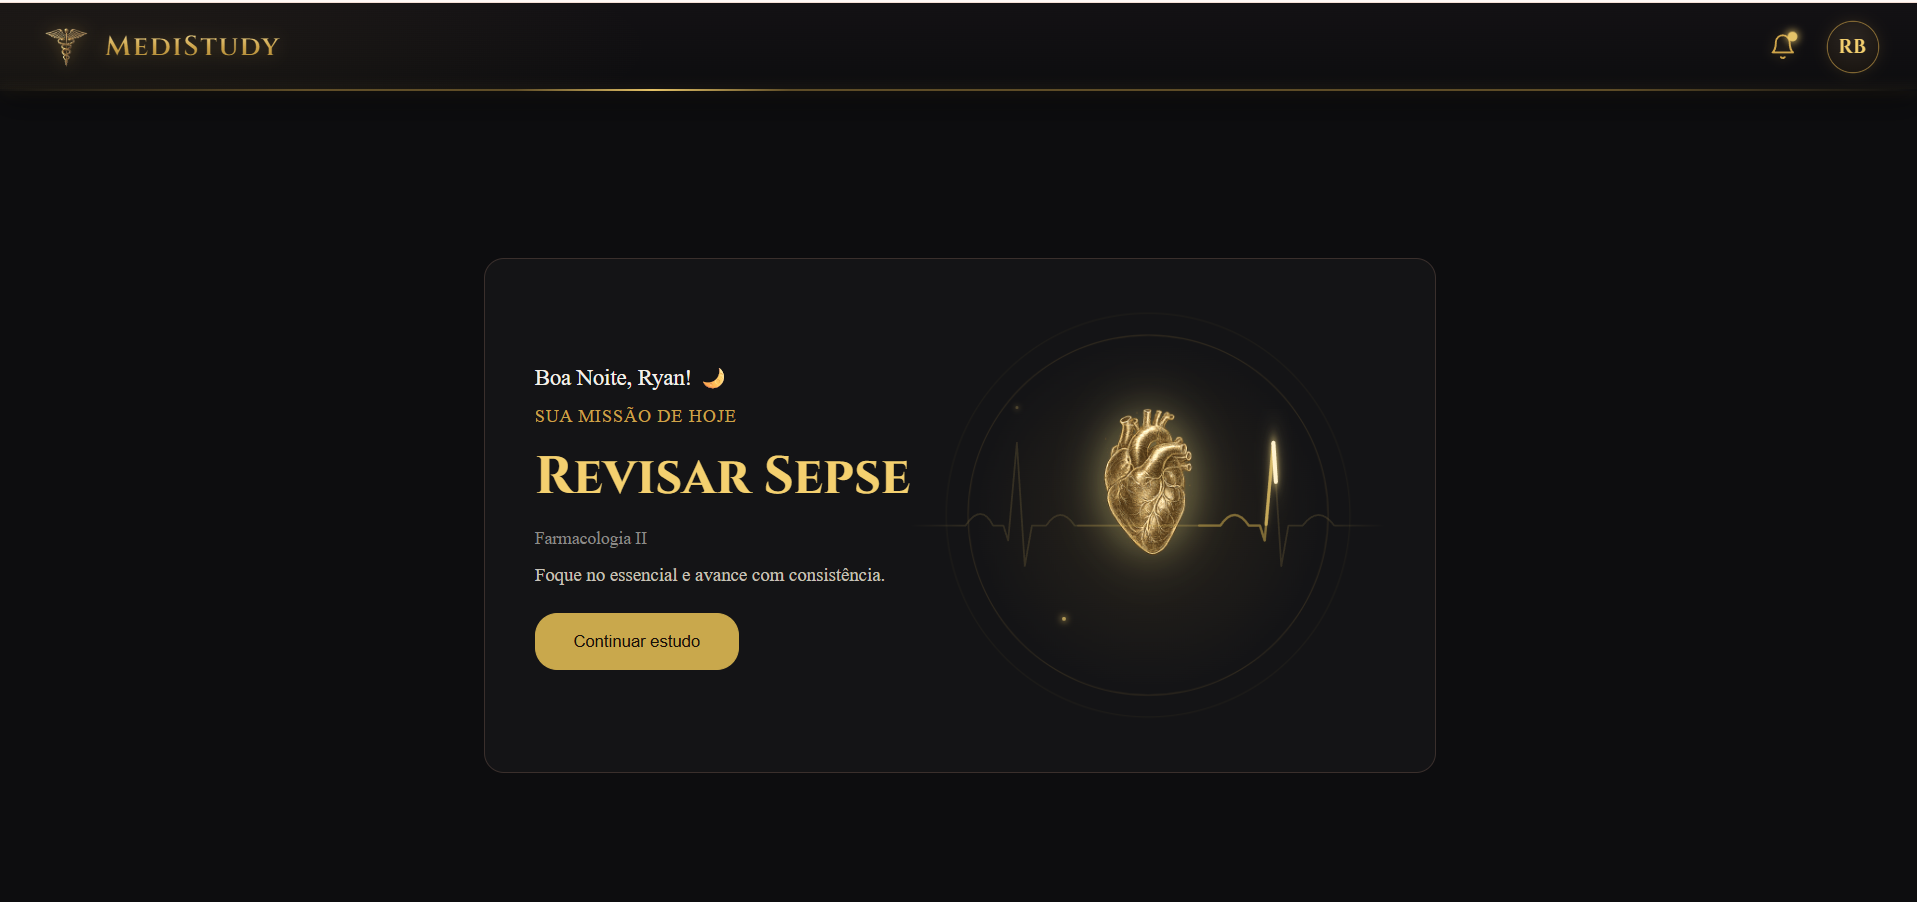
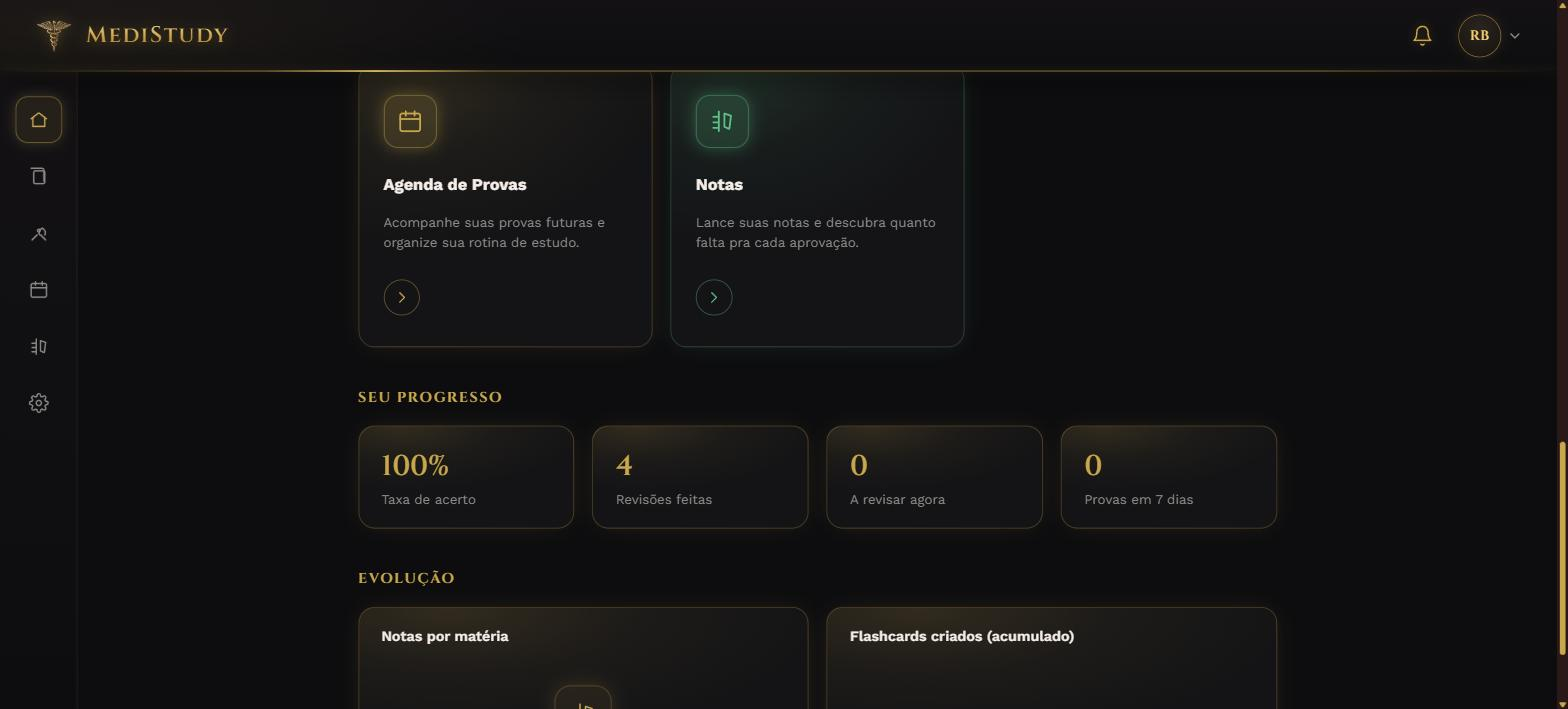
Atualiza bloco do MediStudy no portfólio (pt+en) com novos screenshots
Reescreve o conteúdo em projects-content.js para refletir o fluxo
real do produto (Postgres/Supabase, Edge Function de casos clínicos)
e adiciona screenshots de home, flashcards e casos clínicos.

diff --git a/projects-content.js b/projects-content.js
@@ -22,13 +22,13 @@ const PROJECTS_CONTENT = {
     intro: {
       pt: {
         motivation: 'Acompanhando minha namorada na jornada de estudar Medicina, via ela usando mais de 10 ferramentas diferentes pra estudar: uma IA pra conversar, outra pra debater ideias, Anki pra flashcard, mais uma pra gerar imagem. Como ela tem TDAH, esse tanto de ferramenta espalhada dificultava ainda mais o foco. Construí o MediStudy pra juntar tudo isso num lugar só, e ir além: um sistema que aprende com as respostas dela e se adapta ao jeito dela estudar.',
-        built: 'Um chat único onde, em vez de perguntar pra uma IA, copiar a resposta e levar pra outra, várias IAs debatem entre si e devolvem um relatório com os pontos de vista já cruzados. Também tem gerador de prova que aprende o estilo de cada professor a partir de provas antigas, e um modo grupo com ranking colaborativo, pensado pro jeito que ela estuda com as amigas: em chamada, testando conhecimento junto.',
-        numbers: 'Em fase de arquitetura. Estou desenhando a stack (Docker, com visão de rodar em container portátil) pensando em engenharia de custo e performance antes de escalar o desenvolvimento.',
+        built: 'Flashcards com repetição espaçada e importador do Anki, dois modos de revisão pensados pro tempo real dela (revisão rápida de 5 minutos, véspera de prova), casos clínicos gerados por IA a partir da matéria escolhida, agenda de provas com cálculo de nota necessária, e histórico de evolução em gráfico. Mais de 150 testes automatizados cobrem a lógica de negócio, e o app já passou por duas fases de um redesign visual completo.',
+        numbers: 'Em uso real desde as primeiras ferramentas prontas, não só planejado: mais de 150 testes automatizados, 16 issues do GitHub fechadas, e um redesign visual em fase avançada (2 de 5 fases já completas).',
       },
       en: {
         motivation: "Following my girlfriend through her Medicine studies, I saw her using more than 10 different tools just to study: one AI to talk to, another to debate ideas with, Anki for flashcards, another one to generate images. Since she has ADHD, that many scattered tools made it even harder to focus. I built MediStudy to bring all of that into one place, and go further: a system that learns from her answers and adapts to how she studies.",
-        built: "A single chat where, instead of asking one AI, copying the answer and taking it to another, several AIs debate among themselves and return a report with the viewpoints already cross-checked. It also has an exam generator that learns each professor's style from past exams, and a group mode with a collaborative ranking, built around how she studies with her friends: on a call, testing knowledge together.",
-        numbers: "Still in the architecture phase. I'm designing the stack (Docker, with a portable-container setup in mind) thinking about cost and performance engineering before scaling development.",
+        built: "Spaced-repetition flashcards with an Anki importer, two review modes built around her actual time (a 5-minute quick review, a night-before-the-exam mode), AI-generated clinical cases from a chosen subject, an exam calendar with a required-grade calculator, and an evolution history shown as charts. Over 150 automated tests cover the business logic, and the app has already gone through two phases of a full visual redesign.",
+        numbers: "In real use since the first tools were ready, not just planned: over 150 automated tests, 16 closed GitHub issues, and a visual redesign in an advanced stage (2 of 5 phases already complete).",
       },
     },
     pt: {
@@ -38,31 +38,33 @@ const PROJECTS_CONTENT = {
         { t: 'p', text: 'Sempre tive fascínio por IA e o que ela é capaz de fazer de verdade. Um dia vi minha namorada abrindo mais de 15 ferramentas diferentes só pra dar conta de uma sessão de estudo: o Claude pra tirar dúvida, o Anki pra flashcard, o NotebookLM pra organizar anotação, três ferramentas separadas resolvendo um único problema. Pensei: por que não construir uma que englobe tudo isso, moldada exatamente no jeito que ela estuda, e no jeito que ela estuda com as amigas?' },
         { t: 'gallery', label: 'Como está hoje', items: [
           { src: 'screens/01-login.webp', caption: 'Tela de login do MediStudy' },
-          { src: 'screens/02-home.png', caption: 'Home: missão do dia gerada a partir do plano de estudo' },
+          { src: 'screens/02-home.png', caption: 'Home: sidebar, missão do dia e grid de ferramentas com estatísticas reais' },
+          { src: 'screens/03-flashcards.png', caption: 'Flashcards: card de revisão virado, com painel de estatísticas' },
+          { src: 'screens/04-casos-clinicos.png', caption: 'Casos Clínicos: caso gerado por IA com alternativas' },
         ] },
-        { t: 'h2', text: 'O que eu desenhei' },
-        { t: 'p', text: 'A base: flashcards com repetição espaçada, casos clínicos gerados por IA, mapa mental interativo, Pomodoro integrado. A partir daí, fui atrás do que realmente diferencia estudar Medicina de estudar qualquer outra coisa. Um simulador de anamnese onde a IA faz o papel do paciente. Um interpretador de exames que lê hemograma e gasometria e explica em linguagem simples. Um recurso de fotografar o slide da aula e ele virar flashcard sozinho. Um modo "explique pro professor", que avalia a resposta pelo estilo específico de cada professor, e um gerador de prova que aprende como aquele professor cobra, a partir dos PDFs de aula e prova antiga que as próprias alunas sobem.' },
-        { t: 'p', text: 'É aqui que entra a parte de arquitetura que mais me interessou resolver: cada matéria vira um contexto próprio no banco, ligado ao professor daquela turma. Quando uma aluna sobe o PDF de uma aula ou prova, esse material entra no histórico daquele professor específico. Isso cria um efeito que gosto bastante: a primeira aluna a subir material de um professor leva mais tempo construindo esse contexto, mas a segunda, terceira e quarta aluna da mesma turma já usam o app com aquele histórico pronto, sem precisar repetir o trabalho. Quanto mais gente usa, mais rico o sistema fica pra todo mundo.' },
-        { t: 'diagram', label: 'Como a arquitetura funciona', nodes: [
-          { title: 'Upload de PDF', desc: 'Aluna sobe aula ou prova antiga' },
-          { title: 'Contexto por professor', desc: 'Material vira histórico ligado ao professor daquela turma' },
-          { title: 'Resumo indexado', desc: 'Conteúdo resumido uma vez, PDF só é relido quando necessário' },
-          { title: 'Orquestração de IA', desc: 'Claude, Groq e Gemini divididos por tipo de tarefa' },
-          { title: 'Resposta ao grupo', desc: 'Caso clínico, prova ou explicação volta pra aluna e pro grupo' },
+        { t: 'h2', text: 'O que eu construí até aqui' },
+        { t: 'p', text: 'A base já está de pé: flashcards com repetição espaçada de verdade (o fator de facilidade de cada card sobe ou desce a cada resposta, mudando quando ele volta a aparecer), importador de baralho do Anki, dois modos de revisão pensados pro tempo real dela, revisão rápida de 5 minutos antes da aula e véspera de prova revisando a matéria inteira do mais difícil pro mais fácil. Os casos clínicos são gerados por IA de verdade, a partir da matéria escolhida, com alternativas, explicação da resposta certa, e histórico de acerto salvo. Além disso: agenda de provas com cálculo de quanto ela precisa tirar pra fechar a média, e histórico de evolução em gráfico.' },
+        { t: 'p', text: 'A parte de arquitetura que mais me interessou resolver, até aqui, foi tirar a chamada de IA do navegador: os casos clínicos passam por uma função no Supabase antes de chegar na IA, então a chave de acesso nunca fica exposta no site publicado. É pouco vistoso pra quem usa, mas é a diferença entre um projeto que só funciona no meu computador e um que funciona pra ela de verdade, todo dia.' },
+        { t: 'diagram', label: 'Como a arquitetura funciona hoje', nodes: [
+          { title: 'Ação na aluna', desc: 'Ex.: pedir um caso clínico de uma matéria' },
+          { title: 'Função no Supabase', desc: 'Recebe o pedido, guarda a chave de IA em segurança' },
+          { title: 'IA gera o conteúdo', desc: 'Groq, modelo Kimi K2, devolve o caso clínico' },
+          { title: 'Validação', desc: 'Formato da resposta é checado antes de salvar' },
+          { title: 'Banco de dados', desc: 'Caso e histórico de acerto salvos pra aluna' },
         ] },
-        { t: 'h2', text: 'Onde o compartilhamento entra' },
-        { t: 'p', text: 'O plano nasceu pensando em grupo, porque é assim que ela estuda de verdade: com as amigas, em chamada. Uma aluna gera um caso clínico e chama o grupo pra debater dentro do próprio app. Uma prova simulada gerada por uma aluna fica disponível pra turma revisar. Um diário de erros aponta padrão de erro individual, e pode apontar onde a turma inteira mais erra, sem expor nota de ninguém.' },
+        { t: 'h2', text: 'Onde o compartilhamento entra (visão futura)' },
+        { t: 'p', text: 'Nada disso existe ainda, é a próxima camada que quero construir: o plano nasceu pensando em grupo, porque é assim que ela estuda de verdade, com as amigas, em chamada. A ideia é uma aluna gerar um caso clínico e chamar o grupo pra debater dentro do próprio app, ou subir o PDF de uma aula/prova antiga e esse material virar contexto ligado ao professor daquela turma, pra próxima aluna da mesma turma já usar esse histórico pronto. Hoje isso é desenho, não código.' },
         { t: 'h2', text: 'Uma estimativa do que isso significa na prática' },
         { t: 'visual', label: 'Antes / Depois', text: 'Pra montar um caso clínico do jeito que ela fazia antes: prompt no ChatGPT, copiar pro grupo do WhatsApp, às vezes colar em outra IA pra revisar. Isso facilmente passava de 10 a 15 minutos por caso. Dentro do MediStudy, esse fluxo cai pra menos de um minuto, sem trocar de aba.' },
         { t: 'visual', label: 'Antes / Depois', text: 'Uma prova simulada específica de um professor, hoje, ela teria que montar sozinha, juntando material manualmente. Isso levaria facilmente mais de uma hora. Com o histórico do professor já acumulado, isso vira questão de segundos.' },
-        { t: 'h2', text: 'Engenharia de custo por trás' },
-        { t: 'p', text: 'Se toda vez que alguém pedisse uma prova simulada a IA precisasse reler o histórico inteiro de PDFs do professor do zero, o consumo de token ia explodir rápido, e o projeto roda quase todo em camada gratuita de API. Por isso penso o banco não só como lugar de guardar dado, mas como parte da estratégia de custo: resumir e indexar o material uma vez, guardar o resumo, e só reler o PDF inteiro quando for estritamente necessário.' },
-        { t: 'p', text: 'Hoje uso três IAs (Claude pro raciocínio pesado, Groq pra resposta rápida, Gemini pra imagem e PDF), mas a visão é ir além: uma camada própria de orquestração decidindo em tempo real qual entre várias LLMs deve responder cada pedido, sempre otimizando custo.' },
-        { t: 'vision', text: 'Essa parte ainda está na fase de desenho, não de código.' },
+        { t: 'h2', text: 'Engenharia de custo, hoje e pra quando o compartilhamento existir' },
+        { t: 'p', text: 'Hoje já penso nisso na única chamada de IA que existe: os casos clínicos passam pela Groq, que tem camada gratuita generosa, e reservo Claude pra funcionalidade que realmente justifique o custo, fora dessa camada gratuita, em vez de entrar por padrão em tudo que pede IA. Quando o compartilhamento em grupo existir, esse cuidado vira ainda mais necessário: se toda vez que alguém pedisse uma prova simulada a IA precisasse reler o histórico inteiro de PDFs do professor do zero, o consumo de token ia explodir rápido. Por isso já penso o banco não só como lugar de guardar dado, mas como parte da estratégia de custo: resumir e indexar o material uma vez, guardar o resumo, e só reler o PDF inteiro quando for estritamente necessário.' },
+        { t: 'p', text: 'A visão é ir além do que já uso: uma camada própria de orquestração decidindo em tempo real qual entre várias LLMs deve responder cada pedido, sempre otimizando custo.' },
+        { t: 'vision', text: 'A camada de orquestração multi-IA ainda está na fase de desenho, não de código.' },
         { t: 'h2', text: 'A parte difícil' },
         { t: 'p', text: 'Desenhar isso não foi só decidir funcionalidade, foi decidir o que a tela mostra e o que ela esconde. Na primeira versão eu queria colocar tudo visível: gráfico, número, progresso. Percebi que isso ia contra o motivo do projeto existir, que era simplificar, não adicionar mais uma camada de decisão pra quem já tá sobrecarregada estudando pra prova. Mudei a lógica pra reduzir decisão em vez de acumular informação na tela.' },
         { t: 'h2', text: 'Onde está hoje' },
-        { t: 'status', text: 'Em desenvolvimento ativo. Tela de login e home já de pé, grid de ferramentas sendo construído agora. Sistema de contexto por professor e compartilhamento em grupo fazem parte do planejamento e ainda não foram implementados. Não é projeto comercial: nasceu de um problema real da minha namorada e meu ao mesmo tempo, e segue sendo os dois ao mesmo tempo.' },
+        { t: 'status', text: 'Em desenvolvimento ativo, com várias ferramentas já em uso real: login, home, flashcards com repetição espaçada e importador do Anki, casos clínicos gerados por IA, agenda de provas, cálculo de nota e histórico de evolução em gráfico. Mais de 150 testes automatizados cobrem a lógica de negócio, e o redesign visual já tem 2 de 5 fases completas. Mapas mentais, questões, simulador de anamnese, contexto por professor e compartilhamento em grupo fazem parte do planejamento e ainda não foram implementados. Não é projeto comercial: nasceu de um problema real da minha namorada e meu ao mesmo tempo, e segue sendo os dois ao mesmo tempo.' },
       ],
     },
     en: {
@@ -72,31 +74,33 @@ const PROJECTS_CONTENT = {
         { t: 'p', text: "I've always been fascinated by AI and what it's really capable of. One day I saw my girlfriend opening more than 15 different tools just to get through one study session: Claude for questions, Anki for flashcards, NotebookLM for organizing notes, three separate tools solving one single problem. I thought: why not build one that covers all of that, shaped exactly to how she studies, and to how she studies with her friends?" },
         { t: 'gallery', label: 'How it looks today', items: [
           { src: 'screens/01-login.webp', caption: 'MediStudy login screen' },
-          { src: 'screens/02-home.png', caption: "Home: today's mission generated from the study plan" },
+          { src: 'screens/02-home.png', caption: 'Home: sidebar, daily mission and tool grid with real stats' },
+          { src: 'screens/03-flashcards.png', caption: 'Flashcards: flipped review card, with the stats panel' },
+          { src: 'screens/04-casos-clinicos.png', caption: 'Clinical Cases: an AI-generated case with its options' },
         ] },
-        { t: 'h2', text: 'What I designed' },
-        { t: 'p', text: 'The base: spaced-repetition flashcards, AI-generated clinical cases, an interactive mind map, a built-in Pomodoro timer. From there, I went after what really sets studying Medicine apart from studying anything else. An anamnesis simulator where the AI plays the patient. An exam interpreter that reads bloodwork and blood gas panels and explains them in plain language. A feature that turns a photo of a class slide into a flashcard on its own. An "explain it to the professor" mode that grades the answer against each professor\'s specific style, and a test generator that learns how that professor grades, from the class and past-exam PDFs the students themselves upload.' },
-        { t: 'p', text: "This is where the architecture piece I found most interesting comes in: each subject becomes its own context in the database, tied to that class's professor. When a student uploads a class or exam PDF, that material enters that specific professor's history. That creates an effect I really like: the first student to upload material for a professor spends more time building that context, but the second, third and fourth student in the same class already use the app with that history ready, without repeating the work. The more people use it, the richer the system gets for everyone." },
-        { t: 'diagram', label: 'How the architecture works', nodes: [
-          { title: 'PDF upload', desc: 'A student uploads a class or exam PDF' },
-          { title: 'Per-professor context', desc: 'Material becomes history tied to that class’s professor' },
-          { title: 'Indexed summary', desc: 'Content is summarized once, PDF is only re-read when needed' },
-          { title: 'AI routing', desc: 'Claude, Groq and Gemini split by task type' },
-          { title: 'Group response', desc: 'Clinical case, exam or explanation goes back to the student and group' },
+        { t: 'h2', text: 'What I have built so far' },
+        { t: 'p', text: "The base is already up: spaced-repetition flashcards that actually work (each card's ease factor goes up or down with every answer, changing when it comes back around), an Anki deck importer, two review modes built around her real time, a 5-minute quick review before class and a night-before-the-exam mode that goes through the whole subject from hardest to easiest. The clinical cases are genuinely AI-generated, from a chosen subject, with multiple-choice options, an explanation for the right answer, and a saved history of right/wrong answers. On top of that: an exam calendar with a required-grade calculator, and an evolution history shown as charts." },
+        { t: 'p', text: "The architecture piece I found most interesting to solve so far was keeping the AI call out of the browser: clinical cases go through a Supabase function before reaching the AI, so the access key never gets exposed on the published site. It's not flashy for the person using it, but it's the difference between a project that only works on my machine and one that actually works for her, every day." },
+        { t: 'diagram', label: 'How the architecture works today', nodes: [
+          { title: 'Student action', desc: "E.g.: requesting a clinical case for a subject" },
+          { title: 'Supabase function', desc: 'Receives the request, keeps the AI key safe' },
+          { title: 'AI generates content', desc: 'Groq, Kimi K2 model, returns the clinical case' },
+          { title: 'Validation', desc: "Response format is checked before saving" },
+          { title: 'Database', desc: "Case and answer history saved for the student" },
         ] },
-        { t: 'h2', text: 'Where group sharing comes in' },
-        { t: 'p', text: "The plan was built around groups from the start, because that's how she really studies: with friends, on a call. One student generates a clinical case and pulls the group in to discuss it inside the app itself. A practice exam generated by one student stays available for the whole class to review. An error log flags individual mistake patterns, and can flag where the whole class struggles most, without exposing anyone's grade." },
+        { t: 'h2', text: 'Where group sharing comes in (future vision)' },
+        { t: 'p', text: "None of this exists yet, it's the next layer I want to build: the plan was built around groups from the start, because that's how she really studies, with friends, on a call. The idea is for a student to generate a clinical case and pull the group in to discuss it inside the app itself, or to upload a class/exam PDF and have that material become context tied to that class's professor, so the next student in the same class already gets that history ready-made. Today this is design, not code." },
         { t: 'h2', text: 'An estimate of what this means in practice' },
         { t: 'visual', label: 'Before / After', text: 'To put together a clinical case the way she used to: a prompt on ChatGPT, copy it to the group on WhatsApp, sometimes paste it into another AI to review. That easily took 10 to 15 minutes per case. Inside MediStudy, that flow drops to under a minute, without switching tabs.' },
         { t: 'visual', label: 'Before / After', text: "A practice exam specific to one professor would today have to be put together by hand, gathering material manually, which would easily take over an hour. With that professor's history already built up, it becomes a matter of seconds." },
-        { t: 'h2', text: 'The cost engineering behind it' },
-        { t: 'p', text: "If every time someone requested a practice exam the AI had to re-read a professor's entire PDF history from scratch, token usage would explode fast, and the project runs almost entirely on the free tier of the APIs. That's why I think of the database not just as a place to store data, but as part of the cost strategy: summarize and index the material once, store the summary, and only re-read the full PDF when strictly necessary." },
-        { t: 'p', text: "Today I use three AIs (Claude for heavy reasoning, Groq for fast responses, Gemini for images and PDFs), but the vision is to go further: a routing layer of my own deciding in real time which among several LLMs should answer each request, always optimizing for cost." },
-        { t: 'vision', text: "That part is still in the design phase, not in code." },
+        { t: 'h2', text: 'Cost engineering, today and for when sharing exists' },
+        { t: 'p', text: "I already think about this in the one AI call that exists today: clinical cases go through Groq, which has a generous free tier, and I keep Claude reserved for a feature that actually justifies the cost, outside that free tier, instead of defaulting to it for everything that needs AI. Once group sharing exists, this gets even more necessary: if every time someone requested a practice exam the AI had to re-read a professor's entire PDF history from scratch, token usage would explode fast. That's why I already think of the database not just as a place to store data, but as part of the cost strategy: summarize and index the material once, store the summary, and only re-read the full PDF when strictly necessary." },
+        { t: 'p', text: "The vision is to go further than what I already use: a routing layer of my own deciding in real time which among several LLMs should answer each request, always optimizing for cost." },
+        { t: 'vision', text: "The multi-AI orchestration layer is still in the design phase, not in code." },
         { t: 'h2', text: 'The hard part' },
         { t: 'p', text: "Designing this wasn't just about deciding on features, it was about deciding what the screen shows and what it hides. In the first version I wanted everything visible: charts, numbers, progress bars. I realized that worked against the reason the project exists, which is to simplify, not add another layer of decisions for someone already overwhelmed studying for an exam. I changed the logic to reduce decisions instead of piling up information on the screen." },
         { t: 'h2', text: 'Where it stands today' },
-        { t: 'status', text: "In active development. The login screen and home are already up, the tool grid is being built right now. The per-professor context system and group sharing are part of the roadmap and haven't been implemented yet. It isn't a commercial project: it came from a real problem my girlfriend and I share at the same time, and it stays being both of ours at once." },
+        { t: 'status', text: "In active development, with several tools already in real use: login, home, spaced-repetition flashcards with an Anki importer, AI-generated clinical cases, an exam calendar, grade calculation and an evolution history shown as charts. Over 150 automated tests cover the business logic, and the visual redesign already has 2 of 5 phases complete. Mind maps, questions, an anamnesis simulator, per-professor context and group sharing are part of the roadmap and haven't been implemented yet. It isn't a commercial project: it came from a real problem my girlfriend and I share at the same time, and it stays being both of ours at once." },
       ],
     },
   },
